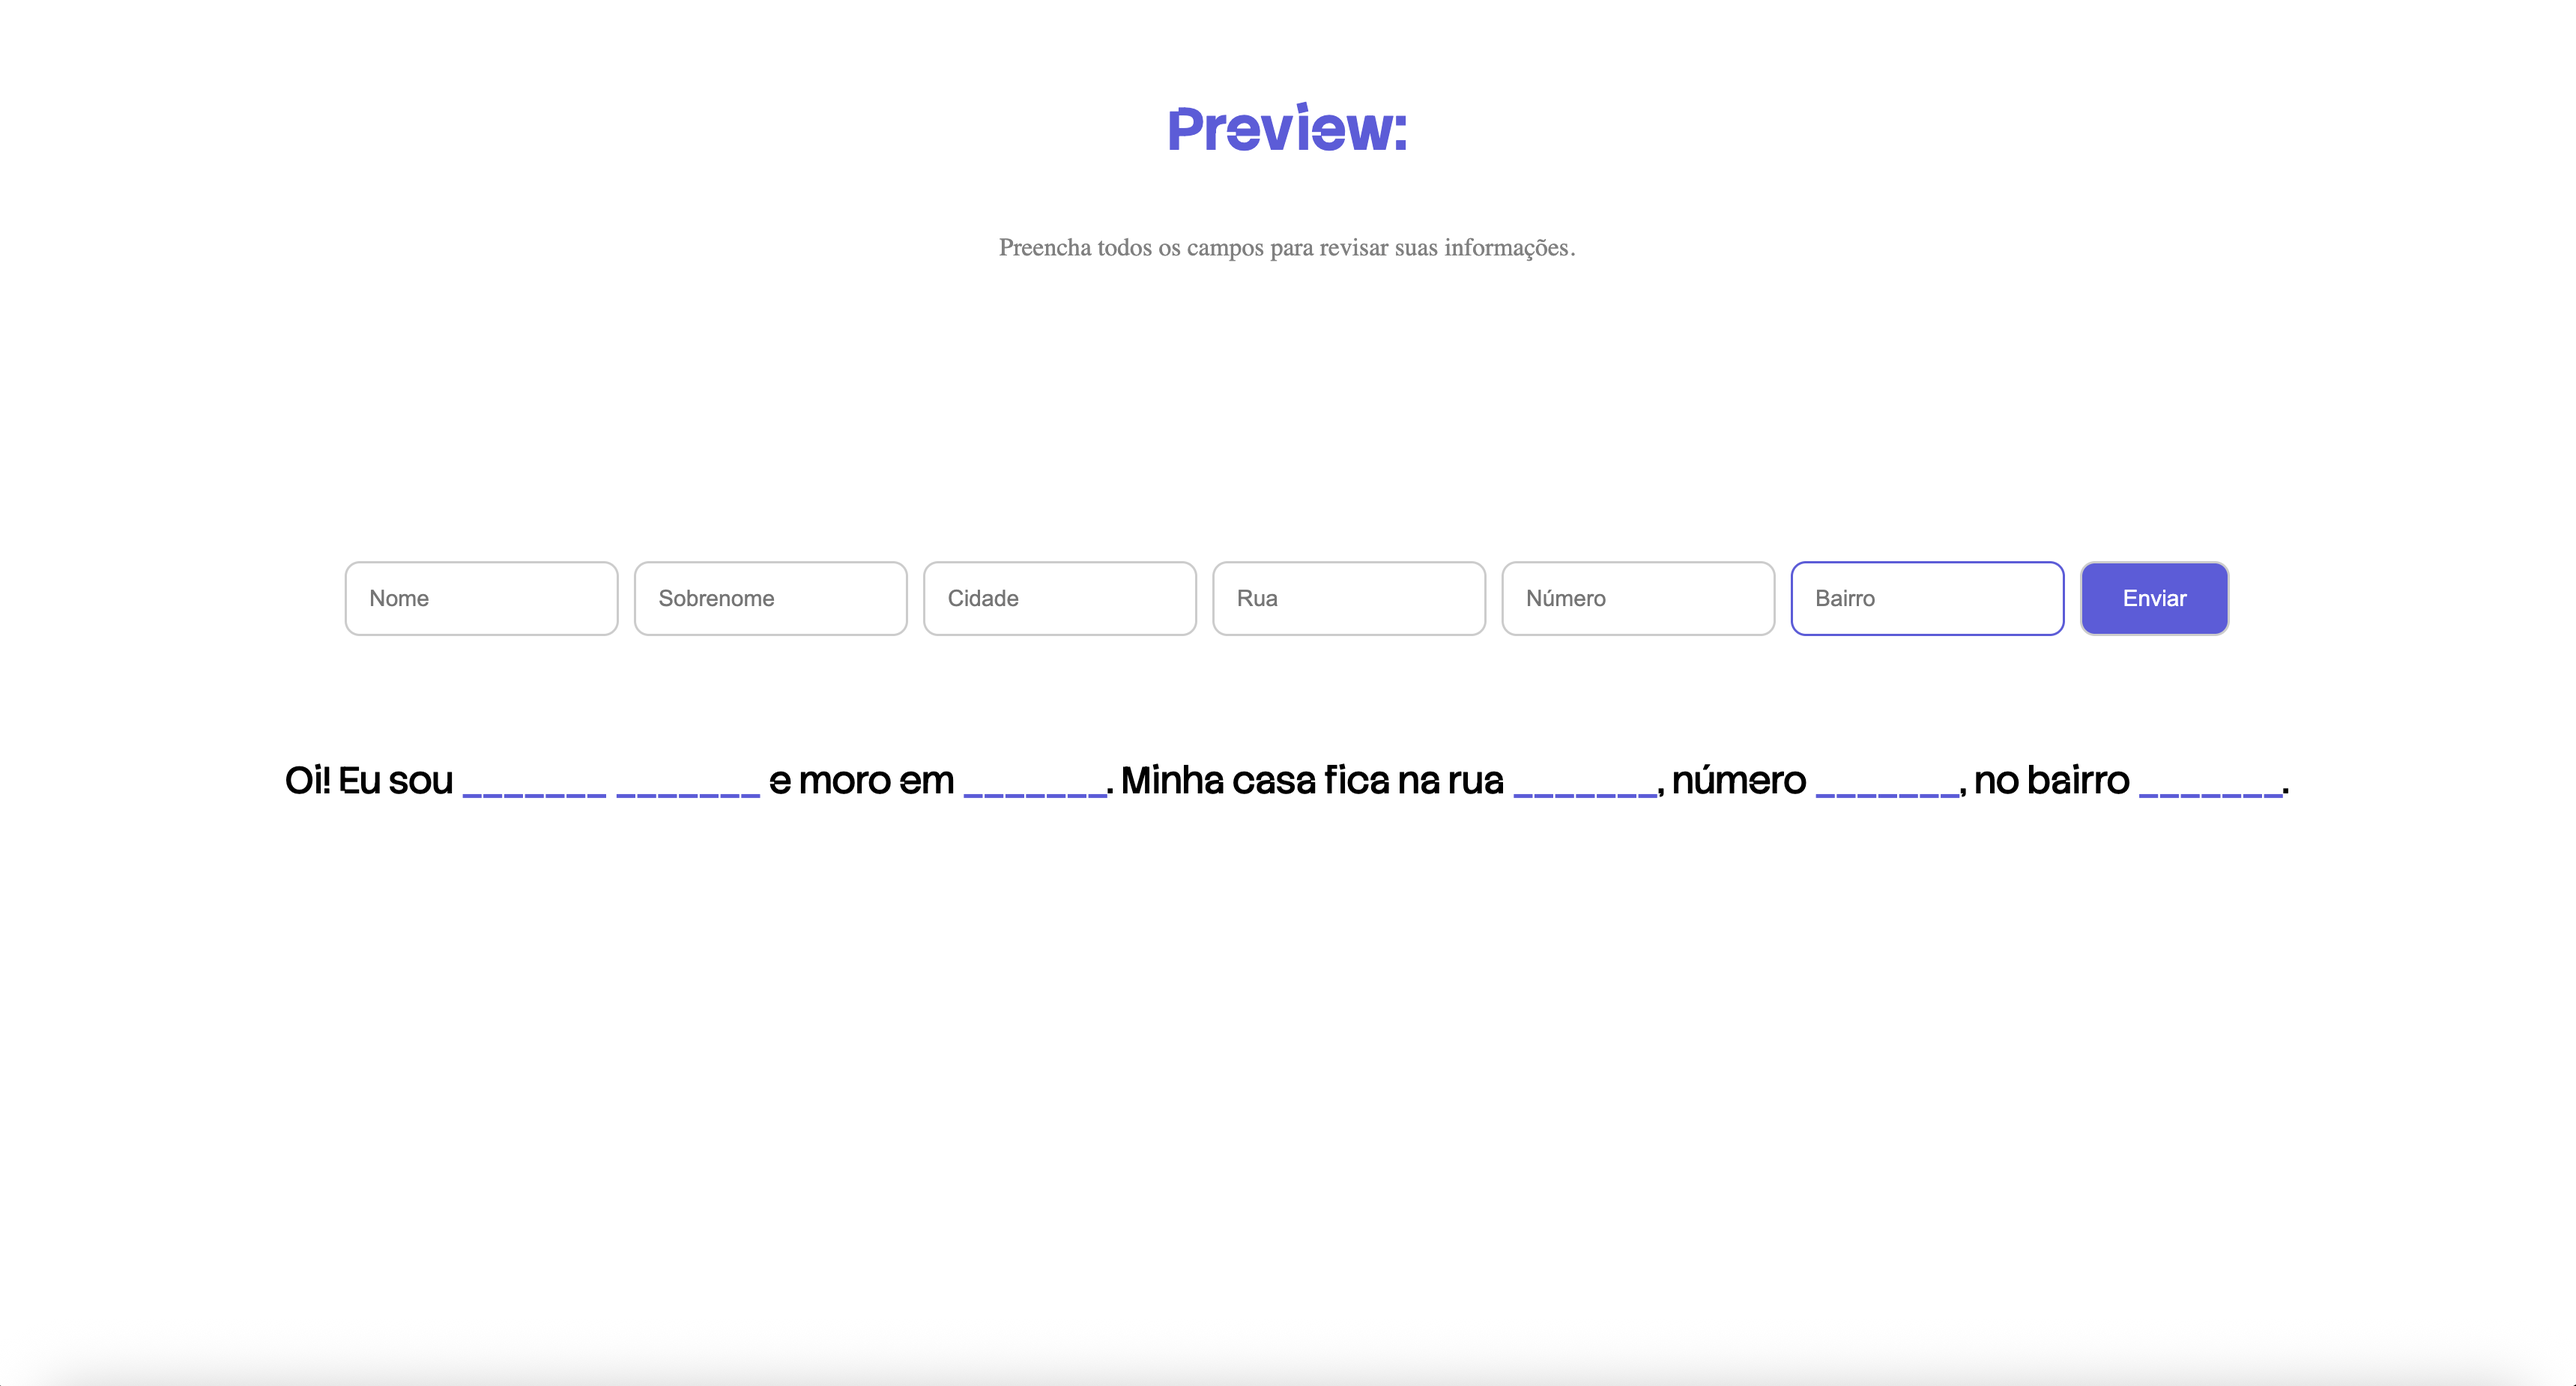
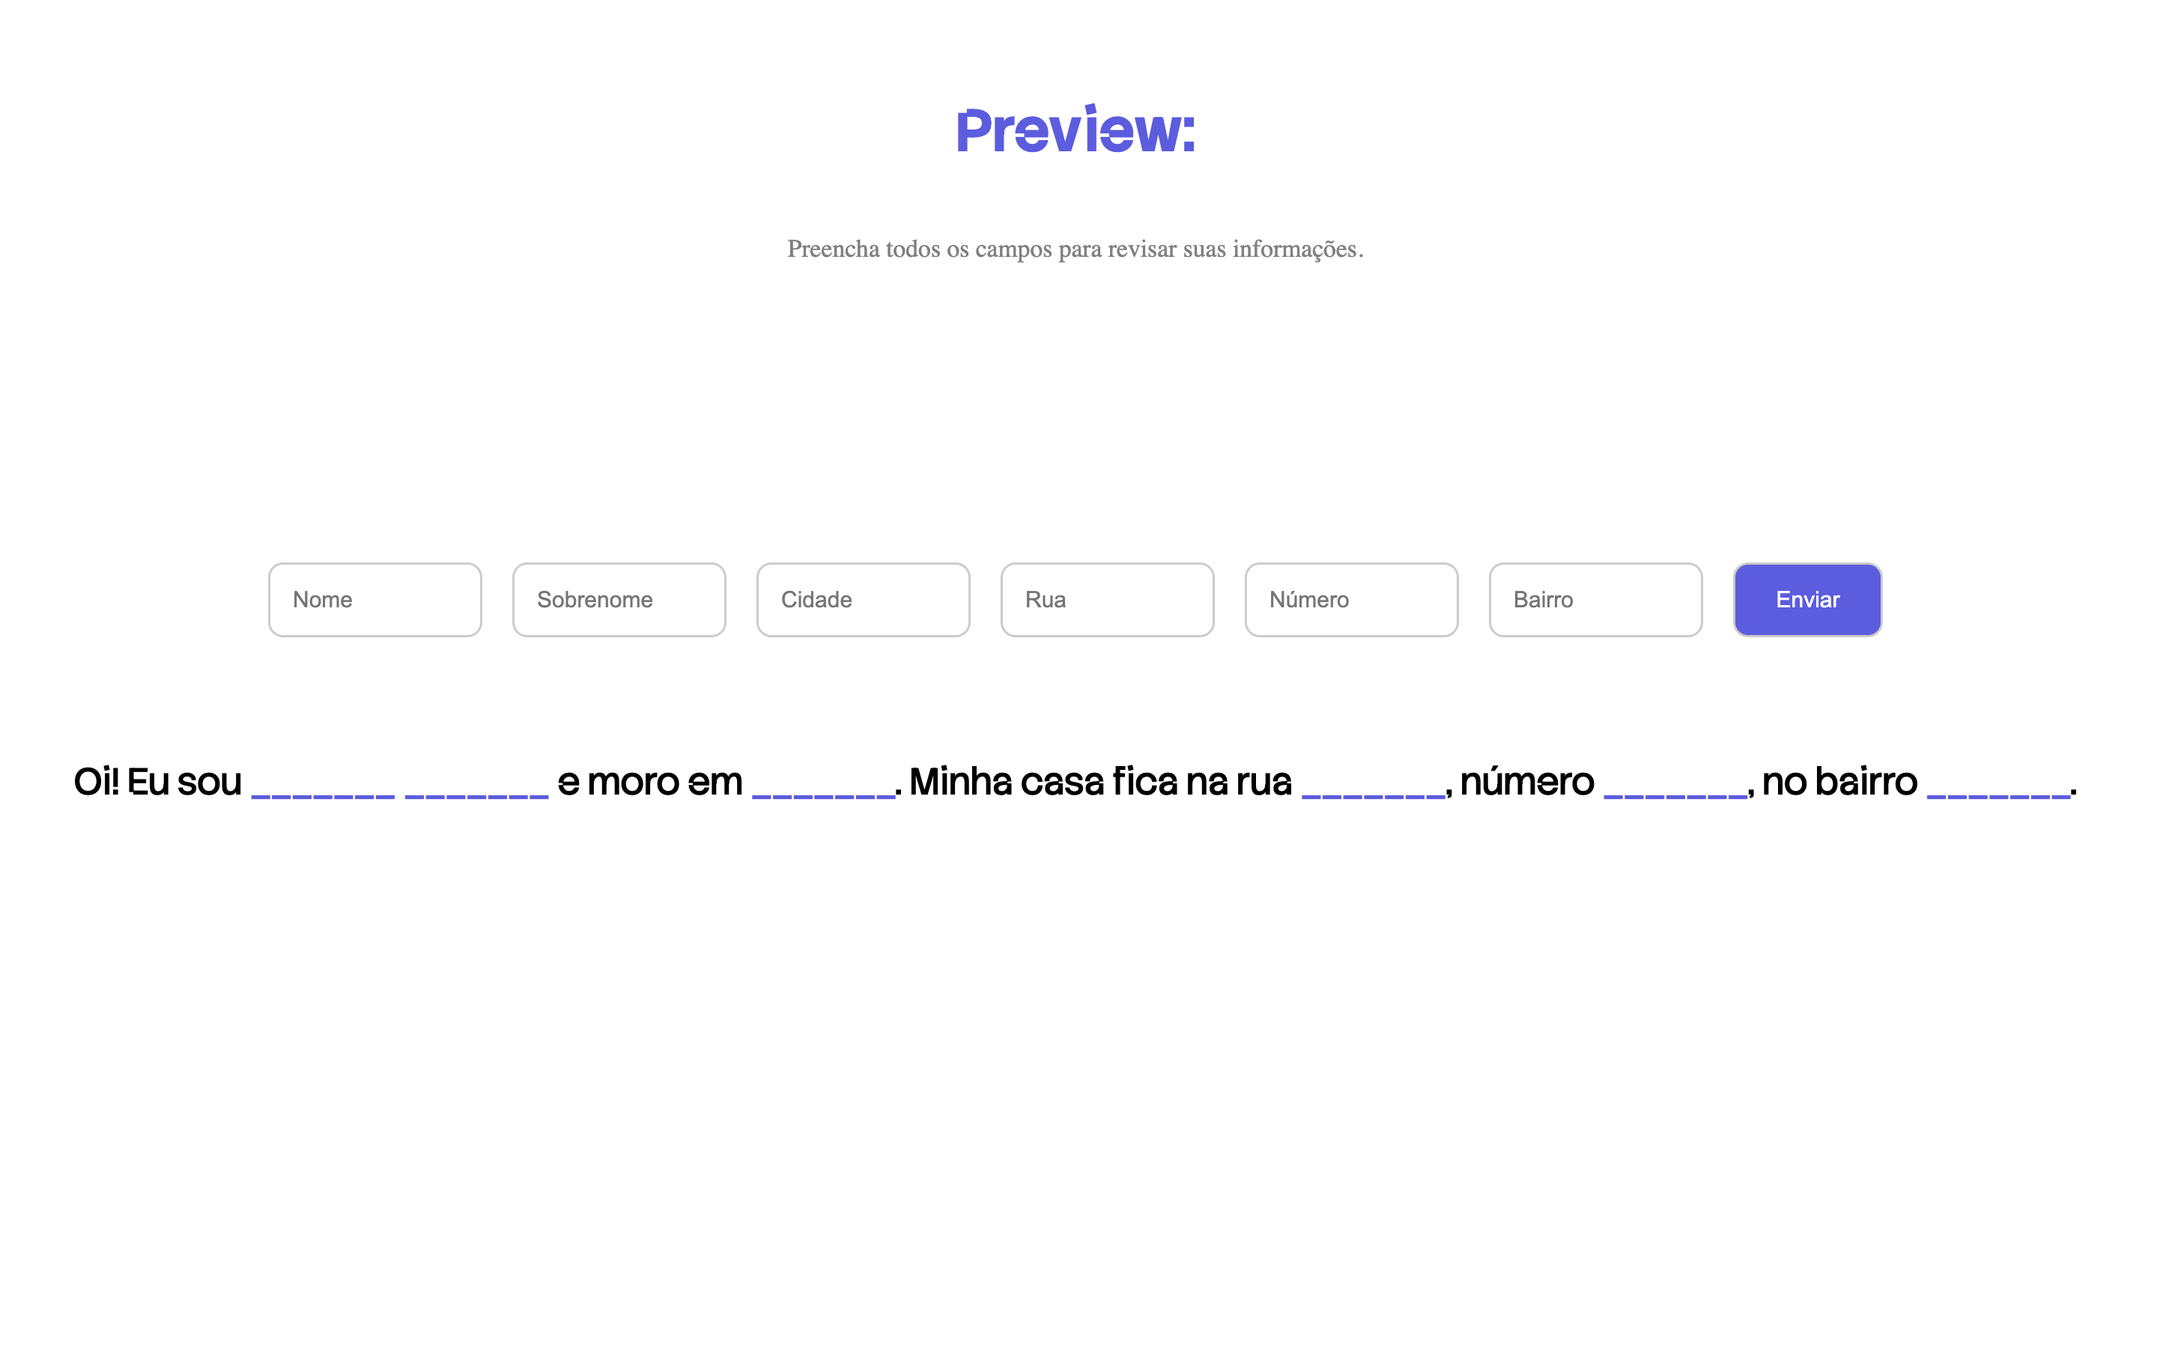
Responsive

diff --git a/src/index.css b/src/index.css
@@ -6,11 +6,12 @@ body {
     display: flex;
     justify-content: center;
     margin-top: 200px;
-
+    gap: 10px;
+    flex-wrap: wrap;
 }
 
 input {
-    width: 150px;
+    width: 110px;
     padding: 15px;
     margin-right: 10px;
     font-size: 15px;
@@ -30,6 +31,7 @@ button {
     border-radius: 10px;
     width: 100px;
     font-size: 15px;
+    min-height: 48px;
 }
 
 .input-values-results {
@@ -38,13 +40,14 @@ button {
     font-family: "Stack Sans Notch", sans-serif;
     font-optical-sizing: auto;
     font-size: 25px;
+    text-align: center;
+    flex-wrap: wrap;
+    gap: 6px;
 }
 
 .paragraph {
     font-family: "Stack Sans Notch", sans-serif;
     font-optical-sizing: auto;
-
-
 }
 
 .h2-home {
@@ -53,9 +56,87 @@ button {
     font-optical-sizing: auto;
     font-size: 40px;
     color: rgb(92, 92, 222);
-
 }
 
 .paragraph-confirmation {
     text-align: center;
+}
+
+
+@media (max-width: 768px) {
+    .div-body {
+        margin-top: 100px;
+        gap: 12px;
+    }
+
+    input {
+        width: 140px;
+        margin-right: 0;
+        font-size: 14px;
+        padding: 13px;
+    }
+
+    button {
+        width: 140px;
+        font-size: 14px;
+        padding: 12px;
+    }
+
+    .input-values-results {
+        font-size: 20px;
+        padding: 0 10px;
+    }
+
+    .h2-home {
+        font-size: 32px;
+    }
+
+    .paragraph {
+        font-size: 20px;
+        line-height: 1.5;
+        text-align: center;
+    }
+}
+
+
+@media (max-width: 480px) {
+    body {
+        padding: 15px;
+    }
+
+    .div-body {
+        flex-direction: column;
+        align-items: center;
+        margin-top: 60px;
+    }
+
+    input {
+        width: 100%;
+        max-width: 320px;
+        font-size: 14px;
+        padding: 12px;
+    }
+
+    button {
+        width: 100%;
+        max-width: 320px;
+        font-size: 14px;
+        padding: 12px;
+    }
+
+    .input-values-results {
+        font-size: 18px;
+        line-height: 1.4;
+        padding: 0 8px;
+    }
+
+    .h2-home {
+        font-size: 32px;
+    }
+
+    .paragraph {
+        font-size: 18px;
+        line-height: 1.6;
+        text-align: center;
+    }
 }
